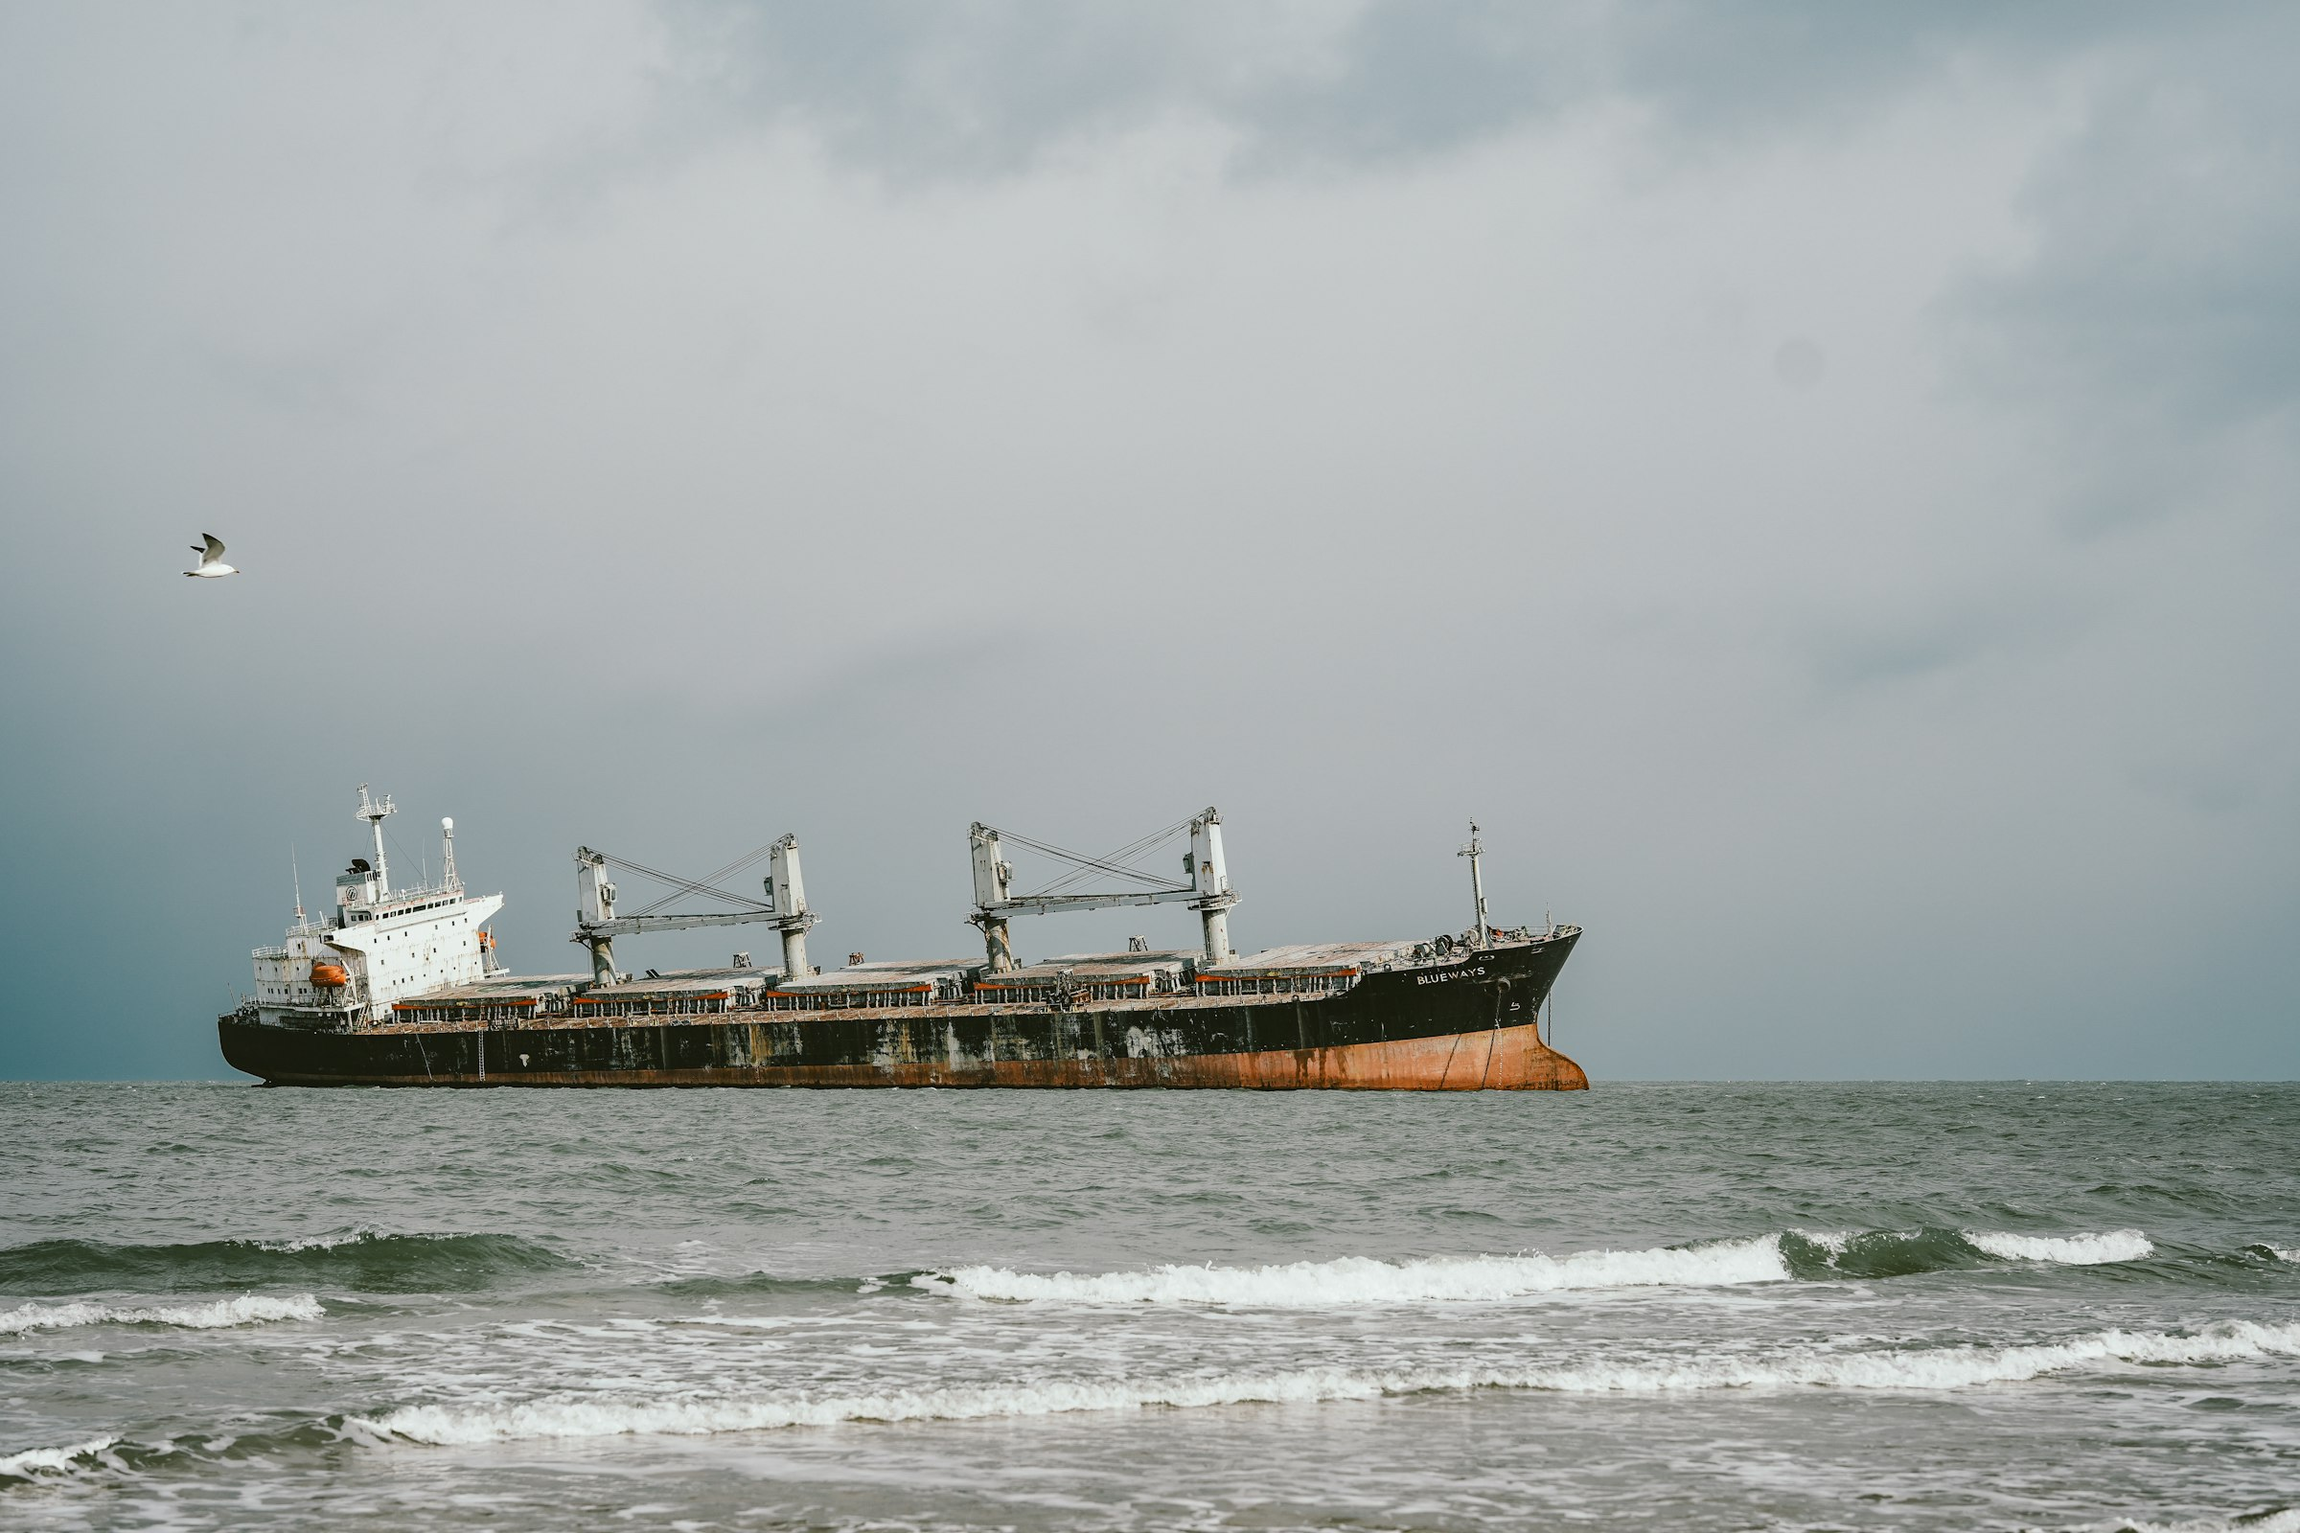
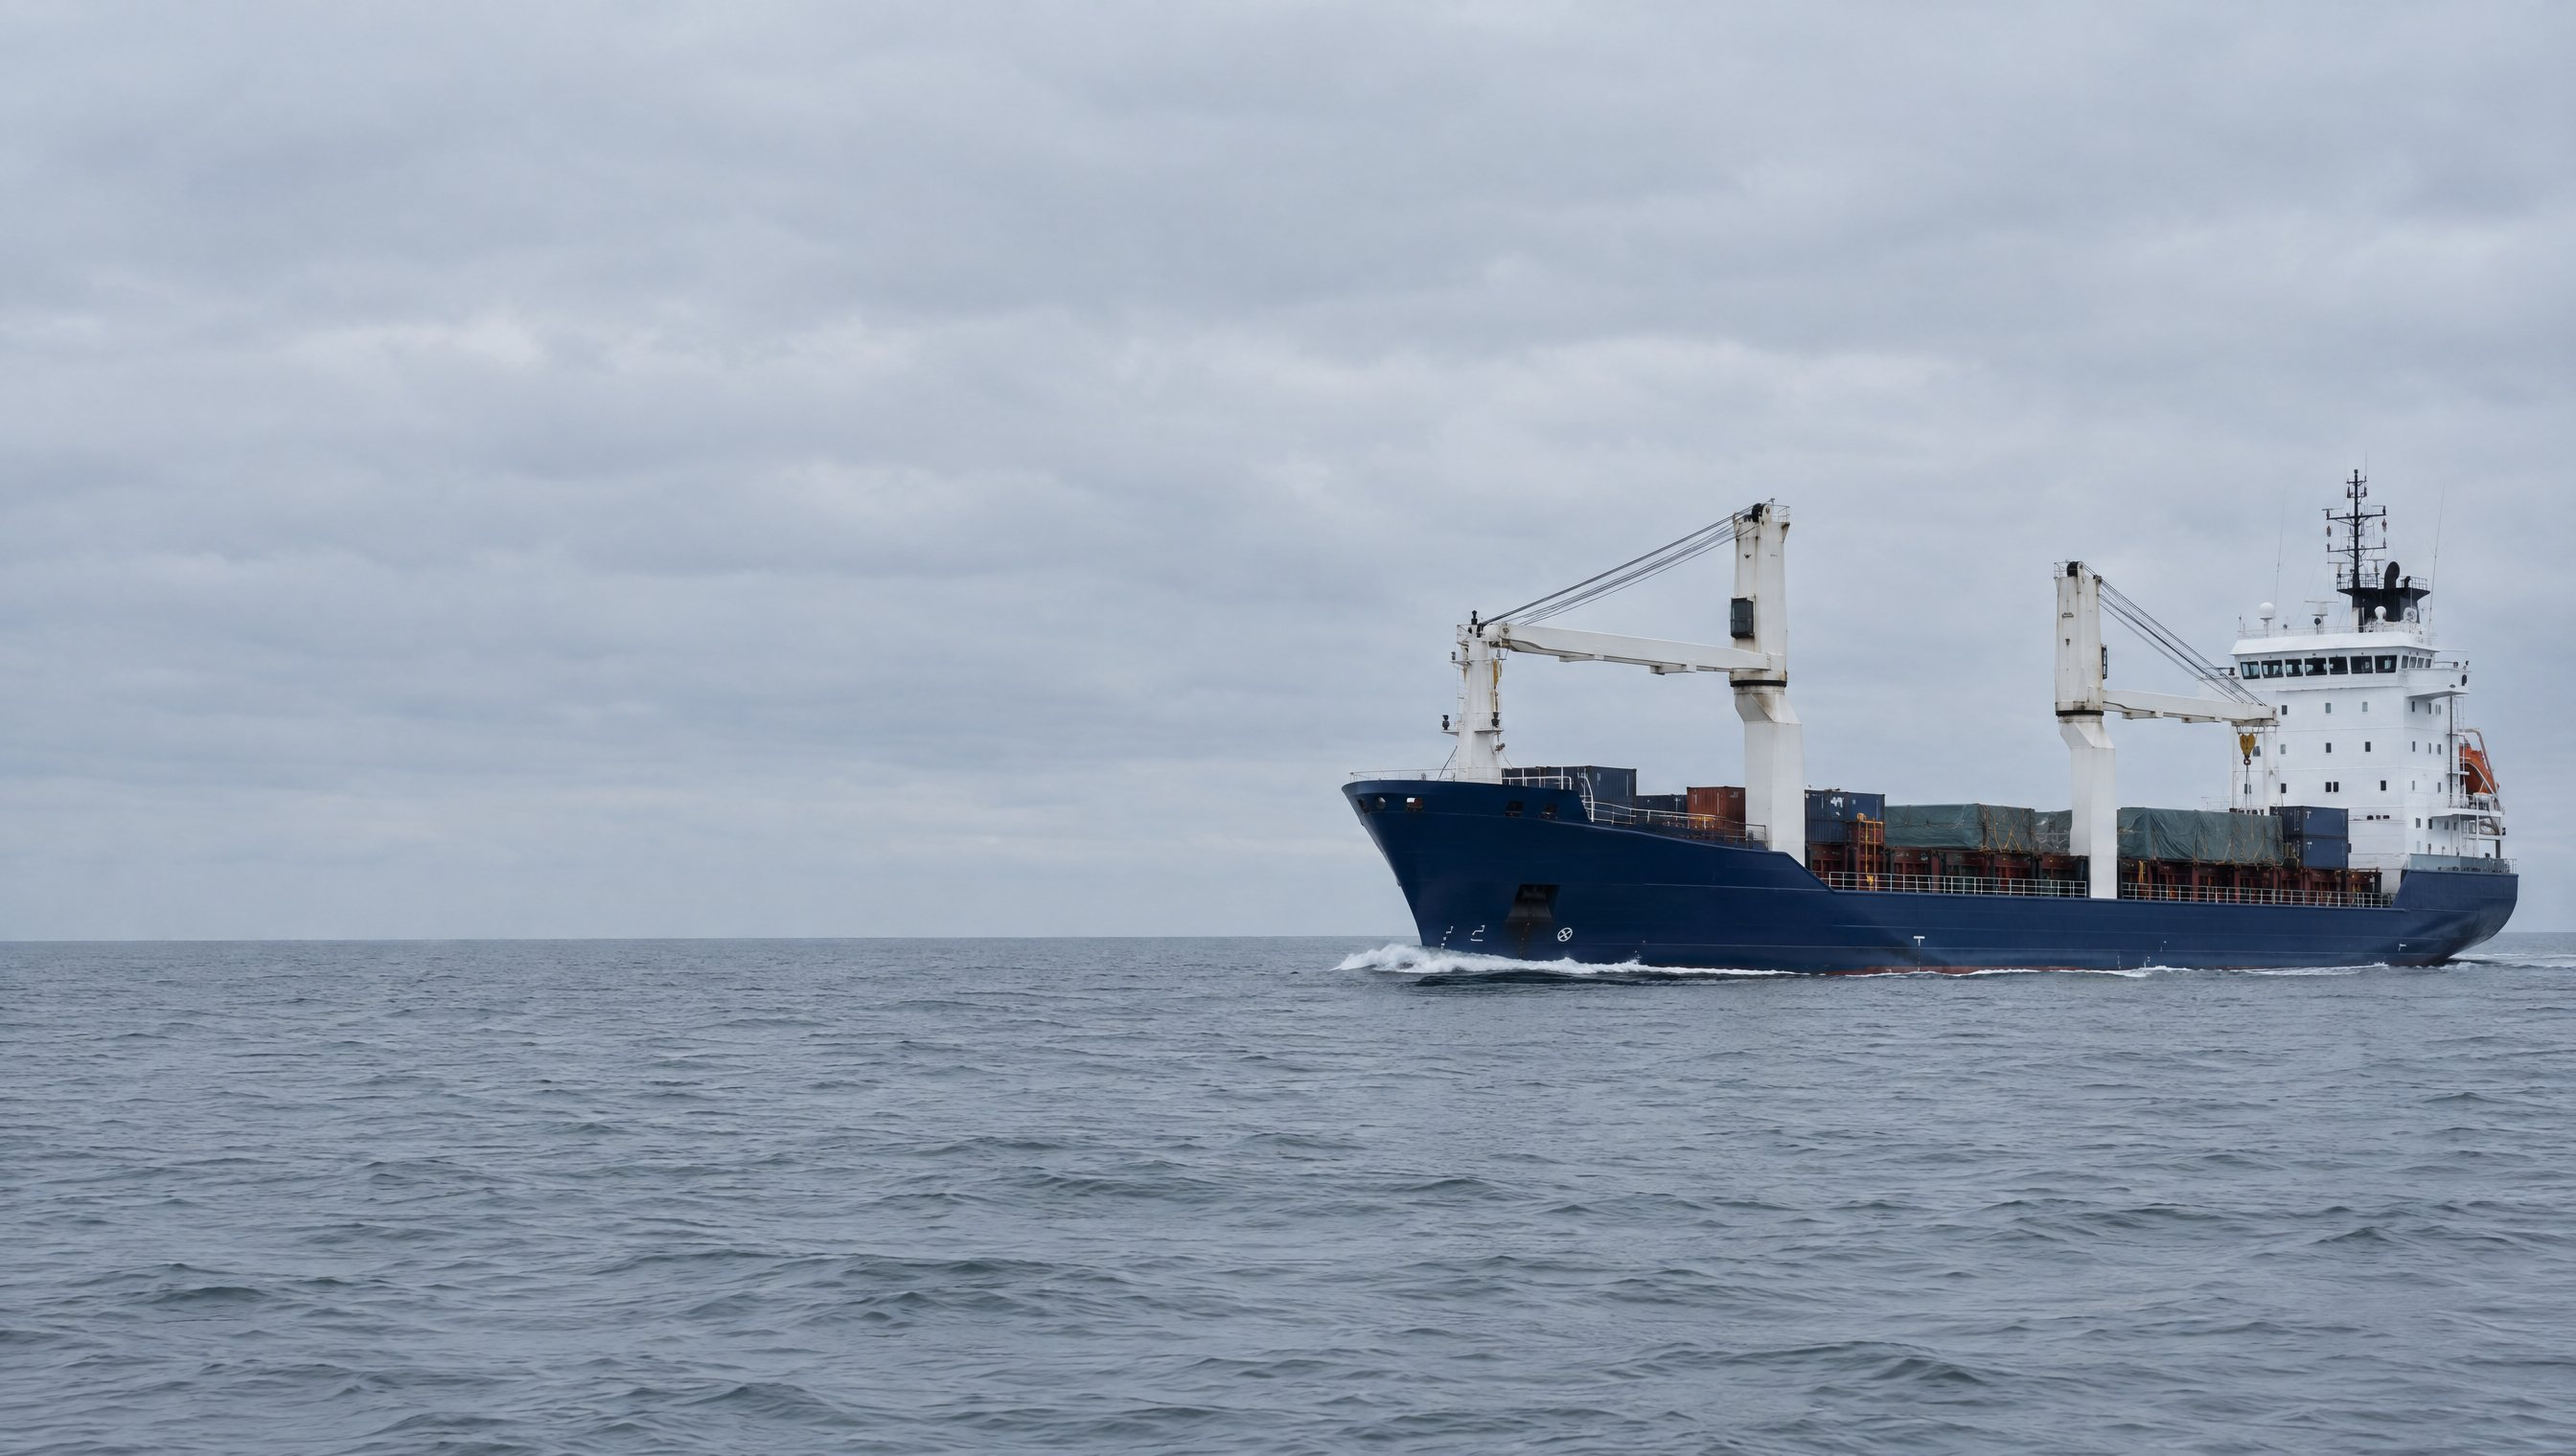
Home: new hero ship (right, clean hull), flat animated values row; team cards equal height

diff --git a/styles.css b/styles.css
@@ -181,7 +181,8 @@ section.band{background:var(--mist)}
 }
 
 .people{display:grid;grid-template-columns:repeat(2,1fr);gap:34px}
-.person .inner{display:flex;align-items:stretch;gap:0}
+.person{display:flex;flex-direction:column}
+.person .inner{display:flex;align-items:stretch;gap:0;flex:1}
 .person .portrait{flex:none;width:152px}
 .person .portrait .ph{height:100%;min-height:200px;padding:14px 15px;gap:3px}
 .person .portrait .ph::before{inset:9px}
@@ -361,17 +362,25 @@ section.band{background:var(--mist)}
 
 /* homepage: key-values band (Libra's version of Euro Nordic's key figures) */
 .kv{background:var(--paper)}
-.kvgrid{display:grid;grid-template-columns:repeat(3,1fr);gap:14px}
+.kvgrid{display:grid;grid-template-columns:repeat(3,1fr);gap:0 44px}
 .kvt{
-  min-height:190px;padding:22px 24px;display:flex;flex-direction:column;justify-content:flex-end;gap:4px;
-  background:var(--mist);color:var(--ink);
+  position:relative;padding:22px 0 6px;display:flex;flex-direction:column;gap:6px;
+  border-top:1px solid var(--rule);color:var(--ink);
+  animation:kv-rise .7s cubic-bezier(.2,.7,.2,1) both;
 }
-.kvt.dark{background:var(--deep);color:var(--paper)}
-.kvt.green{background:var(--green);color:var(--paper)}
-.kvfig{font-family:"Fira Sans Condensed",Arial,sans-serif;font-weight:700;font-size:40px;line-height:1;letter-spacing:-.005em}
-.kvfig small{font-size:.5em;letter-spacing:.1em;text-transform:uppercase}
-.kvhead{font-family:"Fira Sans Condensed",Arial,sans-serif;font-weight:700;font-size:24px;line-height:1.1}
-.kvcap{font-size:14.5px;line-height:1.45;opacity:.85}
+.kvt::before{
+  content:"";position:absolute;left:0;top:-1px;height:3px;width:0;background:var(--green);
+  animation:kv-rule .6s cubic-bezier(.2,.7,.2,1) .35s both;transition:width .45s cubic-bezier(.2,.7,.2,1);
+}
+.kvt:nth-child(2){animation-delay:.12s}.kvt:nth-child(2)::before{animation-delay:.47s}
+.kvt:nth-child(3){animation-delay:.24s}.kvt:nth-child(3)::before{animation-delay:.59s}
+.kvt:hover::before{width:100%}
+.kvt:hover .kvhead{color:var(--green)}
+.kvhead{font-family:"Fira Sans Condensed",Arial,sans-serif;font-weight:700;font-size:26px;line-height:1.1;transition:color .25s}
+.kvcap{font-size:15.5px;line-height:1.5;color:var(--grey)}
+@keyframes kv-rise{from{opacity:0;transform:translateY(14px)}to{opacity:1;transform:none}}
+@keyframes kv-rule{from{width:0}to{width:48px}}
+@media (prefers-reduced-motion:reduce){.kvt,.kvt::before{animation:none}.kvt::before{width:48px}}
 .ph.tile{min-height:170px;aspect-ratio:auto}
 .kv .slot.inline{margin-top:18px}
 
@@ -540,7 +549,7 @@ section.band{background:var(--mist)}
 
 /* home: key-values band without a heading; What we do gets the deeper text */
 .kv .kvgrid{margin-top:0}
-.kv{padding-block:14px 76px}
+.kv{padding-block:40px 64px}
 .desk{display:grid;grid-template-columns:minmax(0,64ch) 300px;gap:24px 72px;align-items:start}
 .desk .prose.deeper{margin-bottom:0}
 .desk .services.link{grid-template-columns:1fr;gap:34px}

diff --git a/index.html b/index.html
@@ -38,8 +38,8 @@
   <section class="kv">
     <div class="wrap">
       <div class="kvgrid">
-        <div class="kvt dark"><span class="kvhead">Excellent services</span><span class="kvcap">with competitive rates and high-quality subcontractors</span></div>
-        <div class="kvt green"><span class="kvfig">24/7</span><span class="kvcap">manned office by experienced operators</span></div>
+        <div class="kvt"><span class="kvhead">Excellent services</span><span class="kvcap">with competitive rates and high-quality subcontractors</span></div>
+        <div class="kvt"><span class="kvhead"><span class="num">24/7</span> manned office</span><span class="kvcap">by experienced operators</span></div>
         <div class="kvt"><span class="kvhead">Tailor-made solutions</span><span class="kvcap">for an efficient port turnaround</span></div>
       </div>
     </div>
